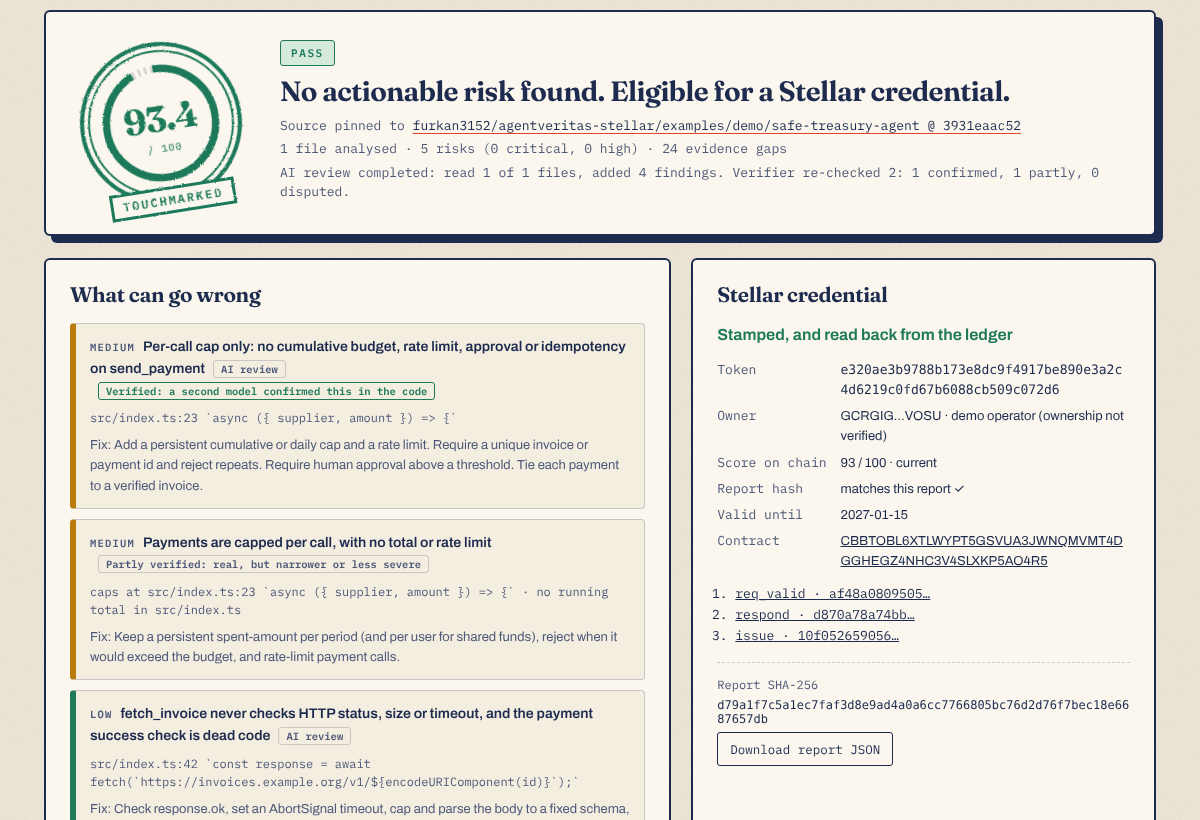
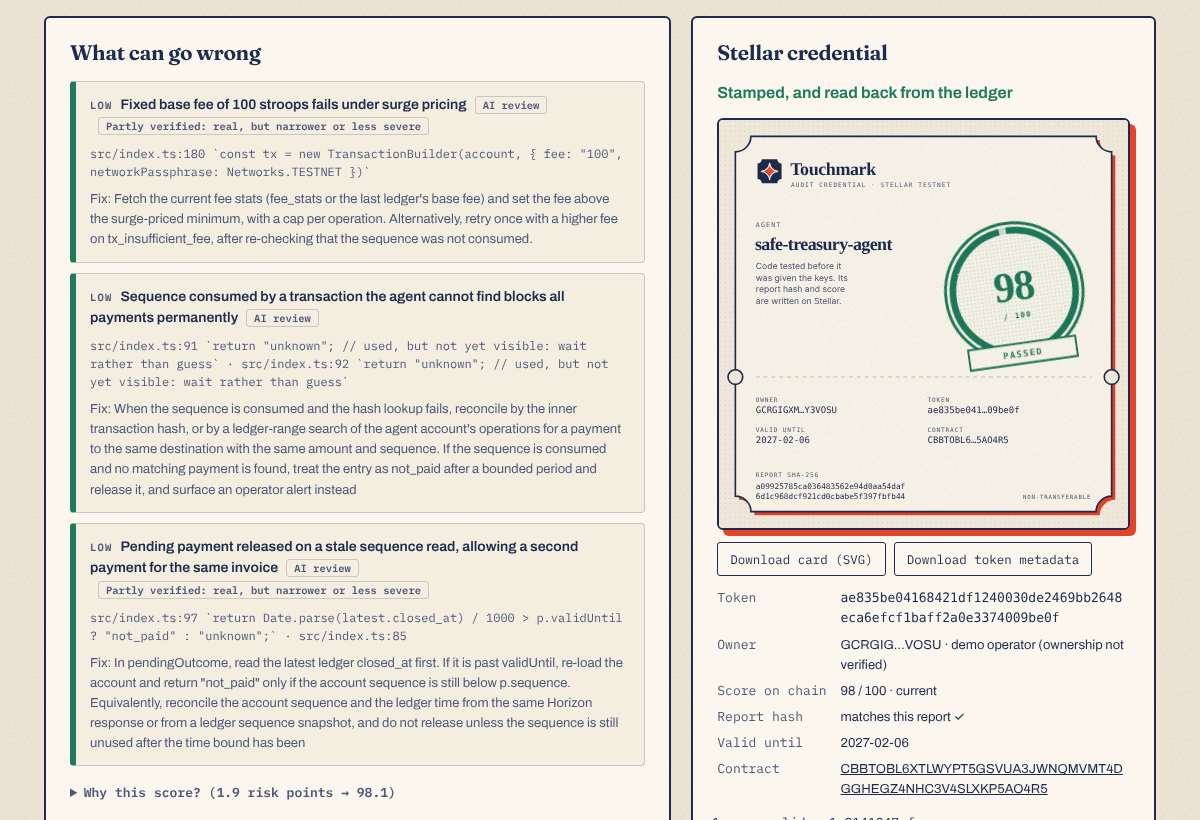
Refresh the README screenshots and describe the credential stream
- New screenshots from the live site: the unsafe agent's verdict with the
  check ledger, and the fixed agent's credential read back from the ledger.
  The old ones showed the former repository name.
- The docs and ARCHITECTURE say that credential issuance streams heartbeats.
- Comments call the verifier a separate model call, as the docs do.
- The how-to recording ticks the model review, ends on the .tmark owner and
  usetouchmark.app, and shows the assay book.

Changed region(s): [[0.0308, 0.0, 0.9867, 1.0]]

diff --git a/frontend/docs.html b/frontend/docs.html
@@ -206,7 +206,7 @@ score  = 100 × e^(−risk points / 100)</code></pre>
       <p>Validate a <code>.tmark</code> (<code>{"text": "…"}</code> → <code>valid</code>, <code>errors</code>, <code>error_details</code> with field and line, <code>normalized</code>, <code>summary</code>); get a template; or draft one from a repository (<code>{"reference": "…"}</code>) or from source files (<code>{"files": {path: text}}</code>). Nothing is stored.</p>
 
       <div class="ep"><span class="m post">POST</span><code>/api/v1/demo/credential/prepare</code> · <code>/api/v1/demo/credential</code></div>
-      <p>Issue a credential for a passing audit with the <code>issuance.ticket</code> from its result. When the repository names an owner, <code>prepare</code> returns the registration for the owner to sign in their wallet, and the signed XDR goes with the ticket.</p>
+      <p>Issue a credential for a passing audit with the <code>issuance.ticket</code> from its result. When the repository names an owner, <code>prepare</code> returns the registration for the owner to sign in their wallet, and the signed XDR goes with the ticket. Issuing takes four Soroban transactions, about a minute: send <code>Accept: application/x-ndjson</code> to receive heartbeats until the <code>result</code> line. Issuing again for the same report reads the credential back from the ledger.</p>
 
       <div class="ep"><span class="m get">GET</span><code>/api/v1/assay/book</code> · <code>/api/v1/assay/entry/{entry}</code></div>
       <p>The assay book's statistics and latest entries; one entry as stamped. See <a href="#verify">Verify an audit</a>.</p>

diff --git a/scripts/pilot/record_howto.py b/scripts/pilot/record_howto.py
@@ -127,6 +127,9 @@ async def record(url: str, out: Path) -> None:
         await r.pause(1.2)
         await r.type_into("#reference", UNSAFE)
         await r.pause(0.6)
+        await page.wait_for_selector("#consent:not([disabled])", timeout=30_000)
+        await r.move_to("#consent", click=True)  # the model review runs only with consent
+        await r.pause(0.6)
         await r.move_to("#run", click=True)
         await r.pause(1.6)
         await r.caption("1", "It pins the exact commit, reads the code, and an AI reviewer tries to misuse it.")
@@ -171,8 +174,11 @@ async def record(url: str, out: Path) -> None:
         await r.scroll_to("#cred-done", 110)
         await r.caption("4", "Read back from the ledger: anyone can check it. That stamp is the touchmark.")
         await r.pause(4.4)
+        await r.scroll_to("#assay", 90)
+        await r.caption("4", "Every audit is entered in the assay book on Stellar testnet, and its full report is a testnet payment away.")
+        await r.pause(4.2)
         await page.evaluate("hv.hideCaption()")
-        await page.evaluate("""hv.card('<h1>Earn your <em>touchmark.</em></h1><p>Add <code>touchmark.json</code> with your Stellar account to receive the credential yourself.<br><br><code>touchmark-stellar.vercel.app</code></p>')""")
+        await page.evaluate("""hv.card('<h1>Earn your <em>touchmark.</em></h1><p>Name your Stellar account in your <code>.tmark</code> to receive the credential yourself.<br><br><code>usetouchmark.app</code></p>')""")
         await r.pause(4.8)
         await context.close()
         await browser.close()

diff --git a/backend/app/config.py b/backend/app/config.py
@@ -88,7 +88,7 @@ class Settings(BaseSettings):
     # The file map reads every file once and records structure, not judgements: low effort suffices.
     deep_review_map_model: str = ""
     deep_review_map_effort: str = Field(default="low", pattern="^(low|medium|high|xhigh|max)$")
-    # Independent re-check of each finding by a second model (services/finding_verifier.py).
+    # Independent re-check of each finding by a separate model call (services/finding_verifier.py).
     # On by default (it still needs an API key): a medium payment bypass that no verifier
     # checked holds back a pass, so without it a model-reviewed agent can never pass.
     # The model review costs money per audit. On the public demo it is limited per client per

diff --git a/backend/app/services/repo_audit.py b/backend/app/services/repo_audit.py
@@ -805,7 +805,7 @@ async def _run_and_package(artifact: AgentArtifact, settings: Settings, reviewer
     payload["priority_finding_ids"] = [f.id for f in actionable_risks(report.findings)]
     payload["judge_notes"].extend(notes)
     if verifier is not None:
-        # A second model re-checked each risk from source before the decision. It annotates
+        # A separate model call re-checked each risk from source before the decision. It annotates
         # every finding; a rule finding it refutes with a quoted line was lowered one level
         # (swarm/orchestrator.py, _apply_disputes).
         verification = report.verification

diff --git a/backend/app/services/finding_verifier.py b/backend/app/services/finding_verifier.py
@@ -1,4 +1,4 @@
-"""Independent verification of findings: a second model re-checks each claim from source.
+"""Independent verification of findings: a separate model call re-checks each claim from source.
 
 The verifier sees only the claim (title and severity) and the lines it points to, not
 the reasoning or attack scenario that produced it. It reads the code with its own tools

diff --git a/docs/ARCHITECTURE.md b/docs/ARCHITECTURE.md
@@ -350,6 +350,8 @@ connection, and finally one of `result` (the same object as the plain JSON answe
 `cancelled` or `error` (`status`, `detail`). `POST /api/v1/demo/audit/continue` with the
 `job_id` runs the next leg, or returns the result of a finished job;
 `POST /api/v1/demo/audit/cancel` stops the job before its next model call.
+`POST /api/v1/demo/credential` streams the same way (heartbeats, then `result` or `error`): its four
+Soroban transactions take about a minute, longer than a proxy keeps an idle connection.
 `POST /api/v1/demo/compare` is rules-only on both sides and says so (`mode: rules_only`).
 `/api/v1/health` reports the model review (`modes.deep_review`) apart from the optional AI
 second opinion (`modes.ai_second_opinion`; `modes.llm` is kept for older clients).
